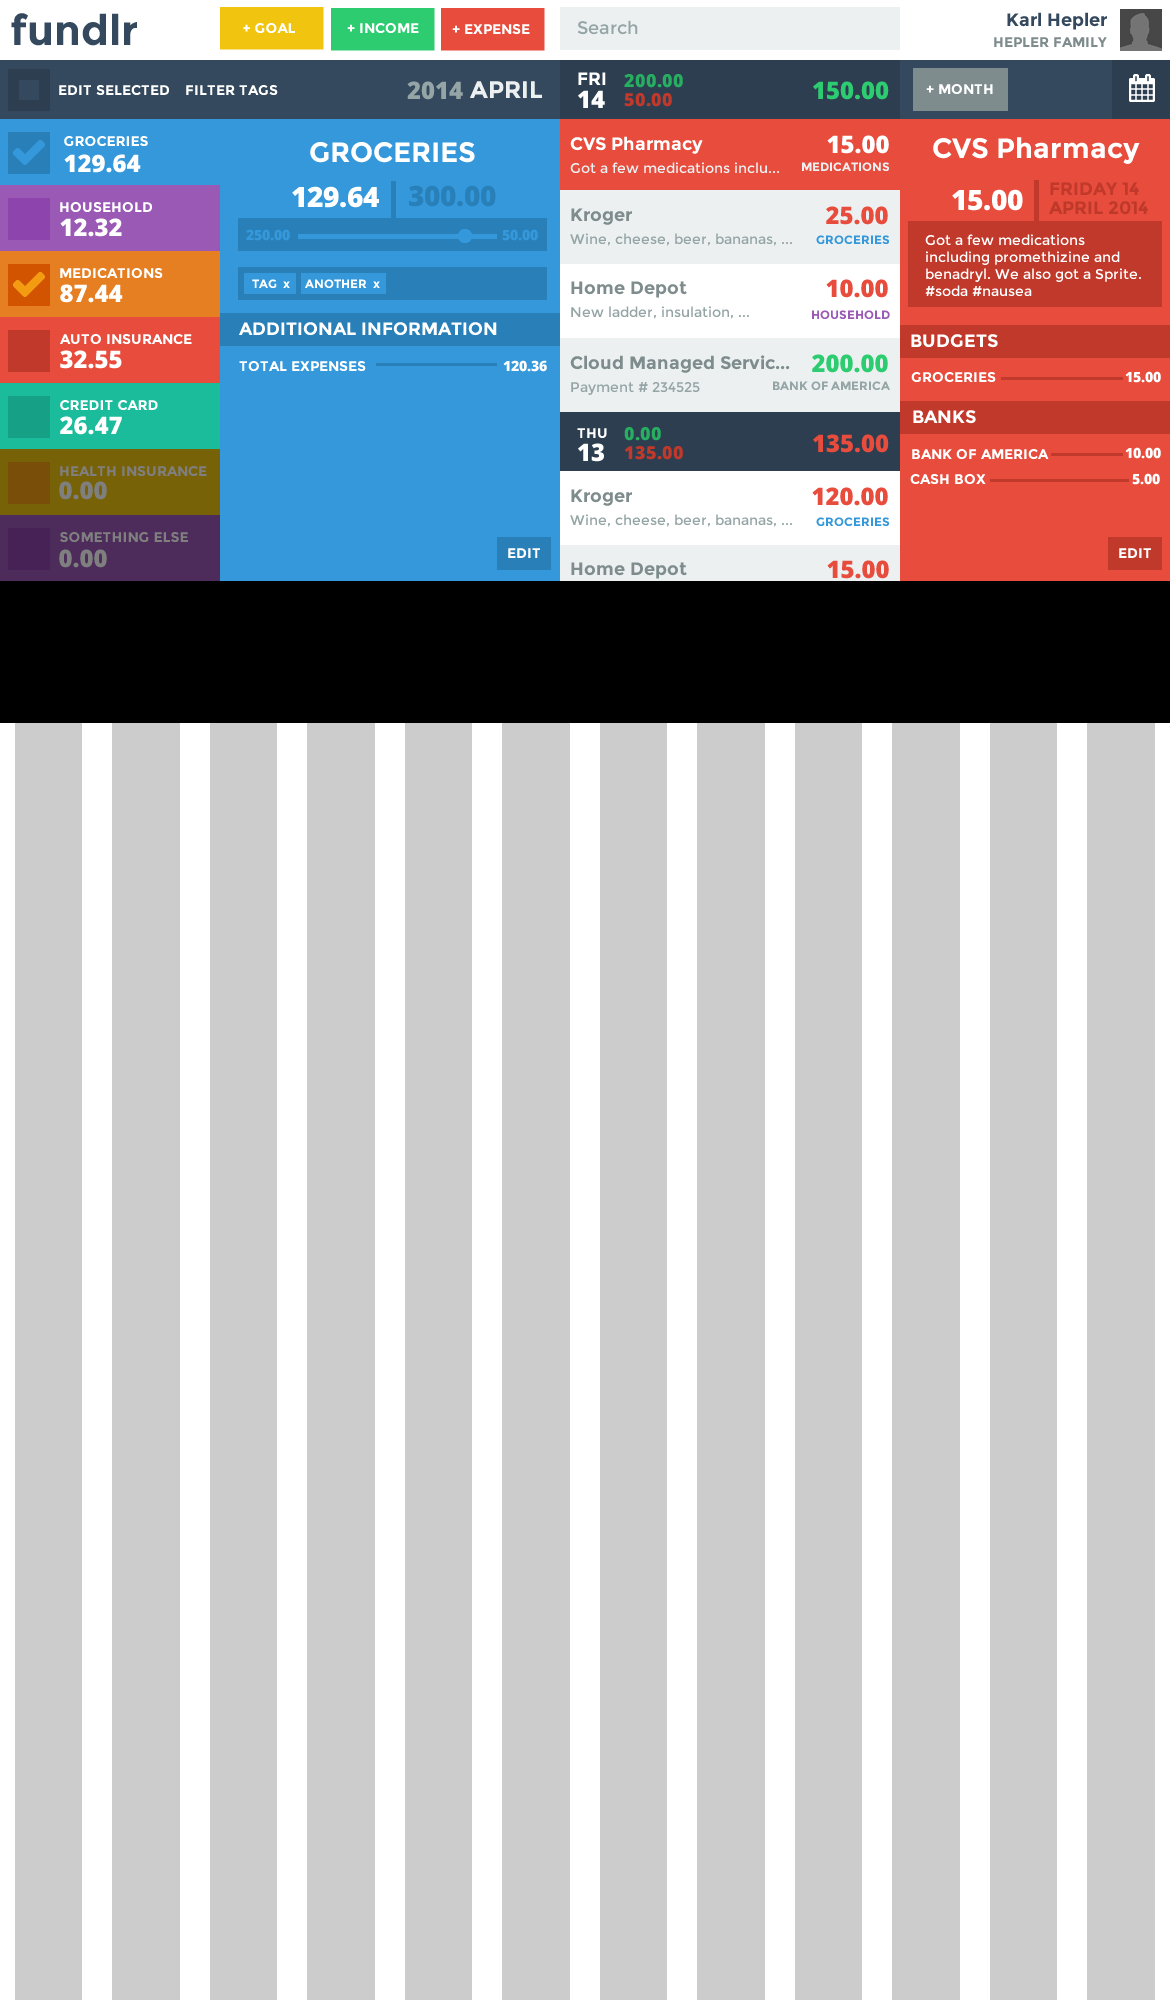
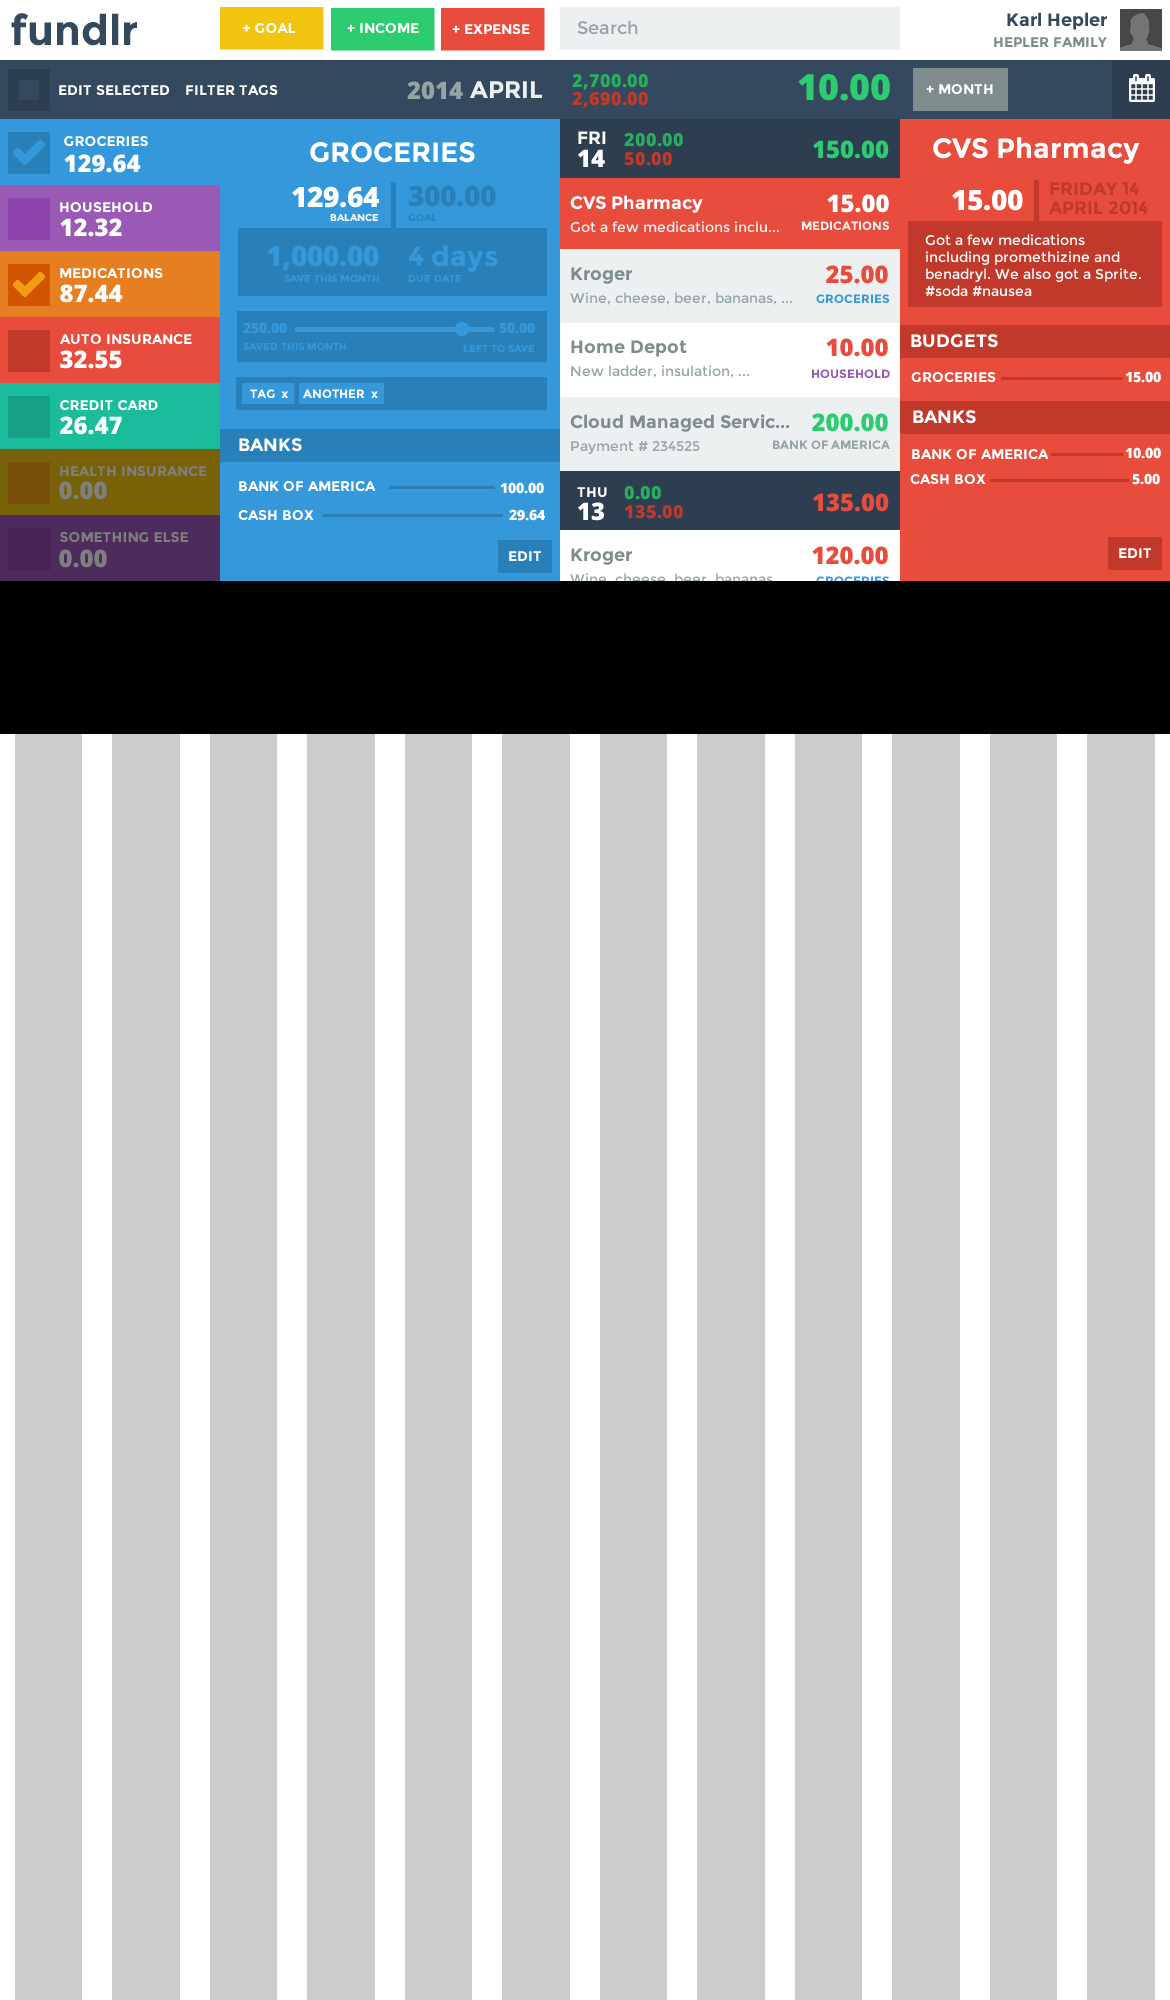
updated readme with bank funded amount and updated design

Changed region(s): [[0.1846, 0.031, 0.7692, 0.31], [0.0, 0.341, 1.0, 0.372]]

diff --git a/readme.md b/readme.md
@@ -102,18 +102,22 @@ Goal {
   due_date:     Date
 
   balance:      Number
-  spent:        Number  
+  spent:        Number
 
   budgets:  [{
-    month_year: Date
-    limit:      Number
-    difference: Number
+    month_year:   Date
+    limit:        Number
+    left_to_save: Number
+    saved:        Number
   }]
   
-  priority:     Number
-
-  banks:    [Bank]
+  priority:     Number  
   tags:     [Tag]
+
+  banks:    [{
+    bank:   Bank
+    funded: Number
+  }]
   
 }
 
@@ -131,7 +135,8 @@ groceries = new Goal({
     {
       month_year: 1/?/15,
       limit: 300,
-      difference: 300
+      left_to_save: 300,
+      saved: 0
     }
   ]
 
@@ -144,7 +149,7 @@ groceries = {
 
   budgets: [
     {
-      difference: 200
+      left_to_save: 200
     }
   ]
 }
@@ -163,7 +168,7 @@ groceries = {
 
   budgets: [
     {      
-      difference: 0
+      left_to_save: 0
     }
   ]
 }
@@ -188,27 +193,27 @@ vacation = new Goal({
     {
       month_year: 1/?/15,
       limit: 1000,
-      difference: 1000
+      left_to_save: 1000
     },
     {
       month_year: 2/?/15,
       limit: 1000,
-      difference: 1000
+      left_to_save: 1000
     },
     {
       month_year: 3/?/15,
       limit: 1000,
-      difference: 1000
+      left_to_save: 1000
     },
     {
       month_year: 4/?/15,
       limit: 1000,
-      difference: 1000
+      left_to_save: 1000
     },
     {
       month_year: 5/?/15,
       limit: 1000,
-      difference: 1000
+      left_to_save: 1000
     }
   ]
 })
